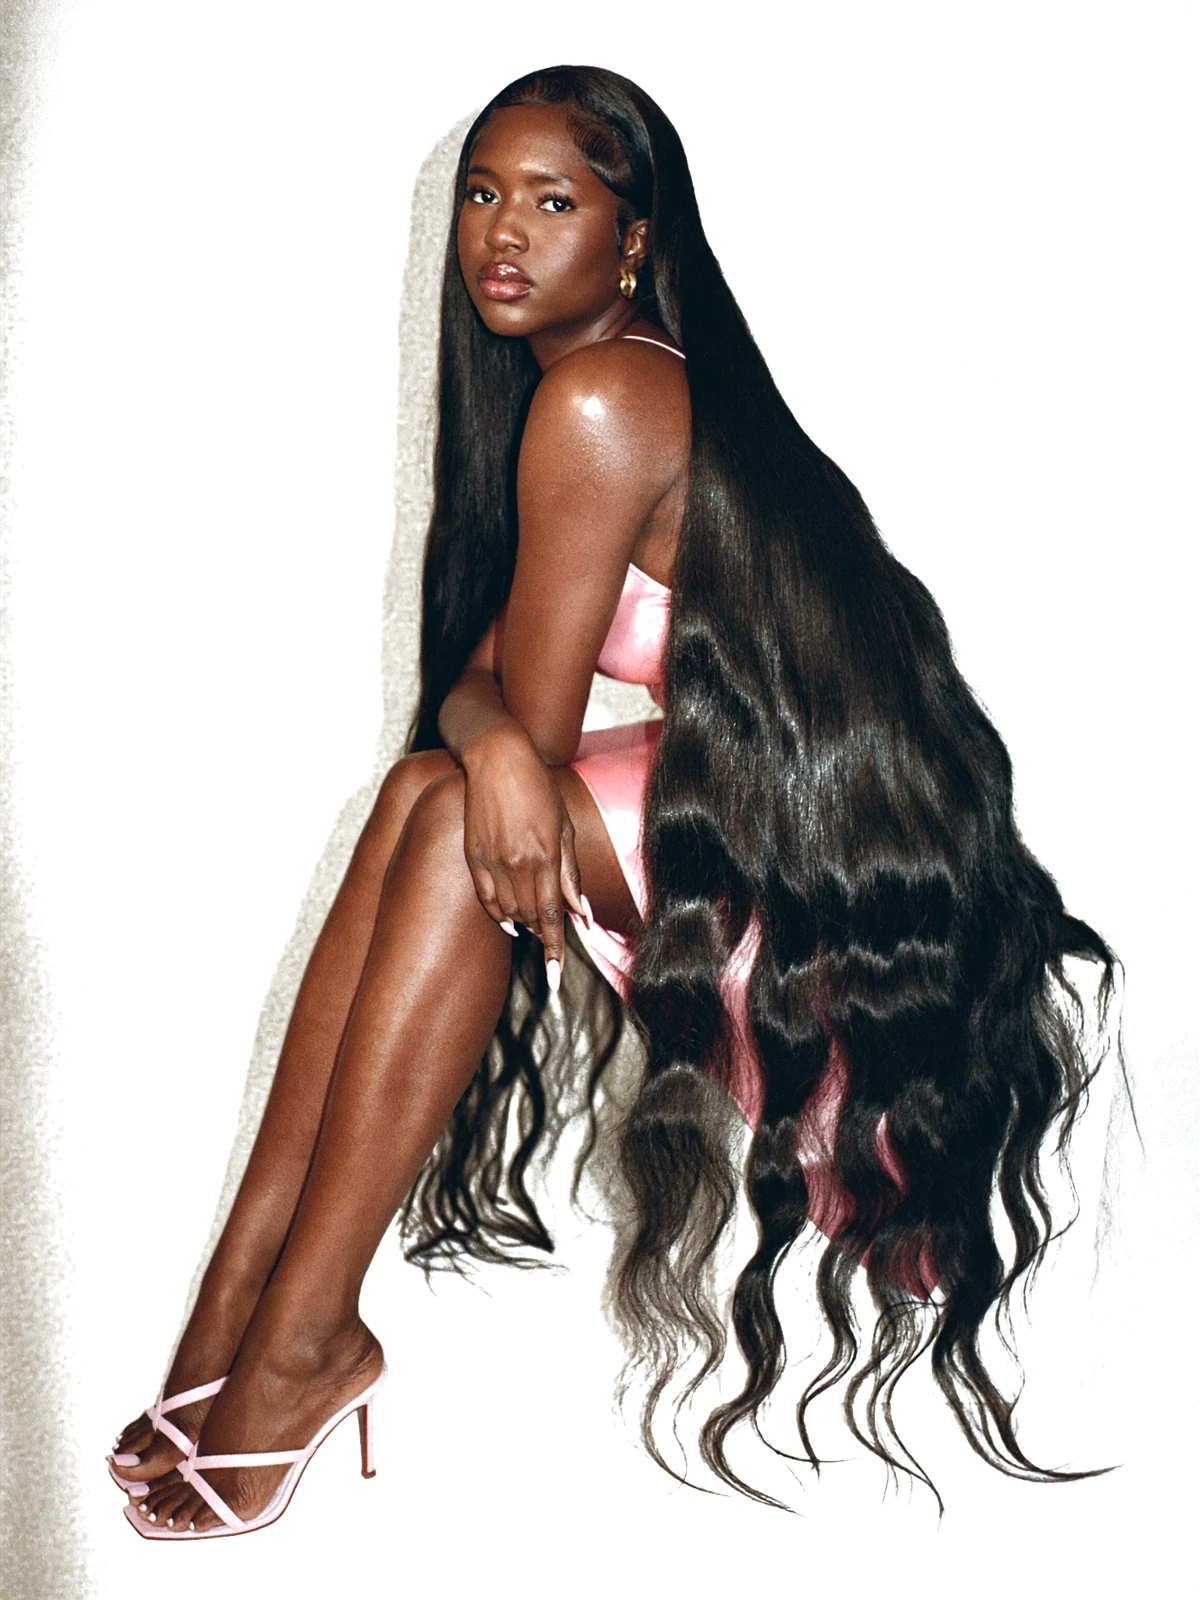
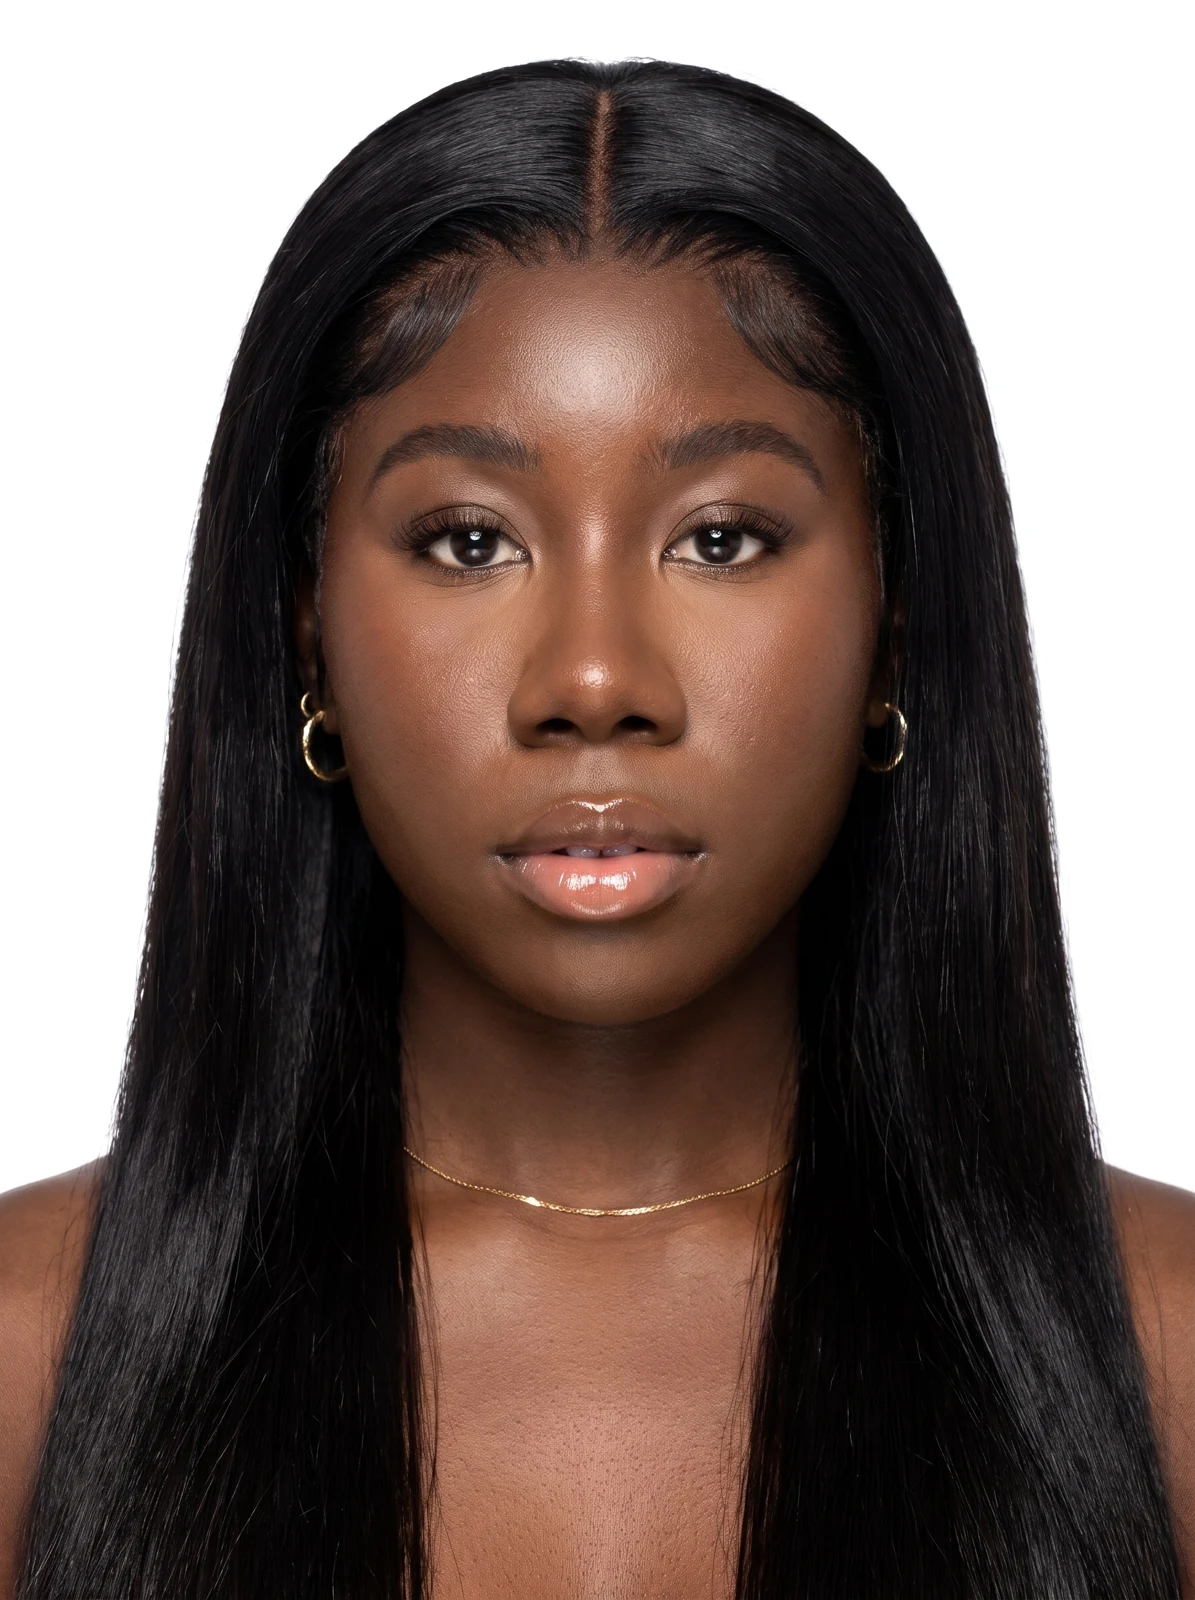
SOYEUSE: model photos generated from the owner's own likeness
Replace the two AI model portraits (hero and glam) with Nano Banana Pro
renders made from the owner's selfie reference, with her consent: front
portrait on white, three-quarter body wave in pink satin. Backdrops
whitened, alt texts updated, glam crop moved up to keep the face in frame.

Claude-Session: https://claude.ai/code/session_01TKxGnCmsb49PvZA5i174My

diff --git a/concepts/soyeuse/index.html b/concepts/soyeuse/index.html
@@ -46,7 +46,7 @@
       <p class="hero__note">Livraison à Abidjan en 24 à 48&nbsp;h</p>
       <a href="boutique/" class="btn btn--pink">Découvrir la boutique</a>
     </div>
-    <div class="hero__img reveal"><img src="img/modele-hero.webp" alt="Mannequin assise de côté, longs cheveux noirs ondulés, fond blanc (image générée par IA)" width="1200" height="1600"></div>
+    <div class="hero__img reveal"><img src="img/modele-hero.webp" alt="Portrait de face, lace lisse noire à raie au milieu, fond blanc (image générée par IA)" width="1200" height="1600"></div>
   </section>
 
   <div class="ruban" aria-hidden="true"><div class="ruban__track"><span>Qualité sans compromis</span><span>Cheveux 100 % naturels</span><span>Livraison à Abidjan</span><span>Confiance absolue</span><span>Qualité sans compromis</span><span>Cheveux 100 % naturels</span><span>Livraison à Abidjan</span><span>Confiance absolue</span><span>Qualité sans compromis</span><span>Cheveux 100 % naturels</span><span>Livraison à Abidjan</span><span>Confiance absolue</span><span>Qualité sans compromis</span><span>Cheveux 100 % naturels</span><span>Livraison à Abidjan</span><span>Confiance absolue</span></div></div>
@@ -110,7 +110,7 @@
       <h2 class="display">L'expérience<span class="script">glamour</span>ultime</h2>
       <p>Montrez-nous votre look&nbsp;: taguez <strong>@soyeusehair</strong><br>sur Instagram et laissez un avis.</p>
     </div>
-    <div class="glam__img"><img src="img/modele-glam.webp" alt="Mannequin de dos, longs cheveux noirs ondulés jusqu'au bas du dos (image générée par IA)" loading="lazy"></div>
+    <div class="glam__img"><img src="img/modele-glam.webp" alt="Portrait de trois-quarts, longs cheveux noirs ondulés, haut rose satin, fond blanc (image générée par IA)" loading="lazy"></div>
   </section>
 
   <section class="avis-band">

diff --git a/concepts/soyeuse/style.css b/concepts/soyeuse/style.css
@@ -126,7 +126,7 @@ svg.i { width: 18px; height: 18px; fill: none; stroke: currentColor; stroke-widt
 .glam__text h2 .script { display: block; font-size: 1em; line-height: inherit; }
 .glam__text p { margin-top: 26px; font-size: 11px; font-weight: 500; letter-spacing: .24em; text-transform: uppercase; line-height: 2; }
 .glam__img { align-self: stretch; width: 100%; min-height: 520px; background: var(--pink-2); }
-.glam__img img { width: 100%; height: 100%; object-fit: cover; object-position: 50% 20%; }
+.glam__img img { width: 100%; height: 100%; object-fit: cover; object-position: 50% 15%; }
 
 /* ---------- Avis ---------- */
 .avis-band { display: grid; grid-template-columns: 1fr 1.2fr; gap: 40px; align-items: center; padding: clamp(50px, 6vw, 80px) var(--pad); background: var(--pink-2); color: #fff; }

diff --git a/concepts/soyeuse/README.md b/concepts/soyeuse/README.md
@@ -40,11 +40,16 @@ Live (unlisted): https://kreeative.xyz/concepts/soyeuse/
 Hastegi is self-hosted in `fonts/` (the owner holds a commercial licence). Keep the licence proof;
 for a client site, check that the licence covers web embedding for that client.
 
-## Model photos (AI-generated)
+## Model photos (AI-generated, from the owner's own likeness)
 
-- `img/modele-hero.webp` (hero: full body, seated sideways on a white cube, white backdrop lifted to
-  pure white) and `img/modele-glam.webp` (« glam » section, backdrop shifted to candy pink): a fictional
-  model generated with Higgsfield (Soul 2.0) for this demo. The alt texts say the images are AI-generated.
+- `img/modele-hero.webp` (hero: front portrait, sleek black lace, white backdrop) and
+  `img/modele-glam.webp` (« glam » section: three-quarter, long body wave, pink satin top): generated
+  with Higgsfield (Nano Banana Pro, `image_references`) from a cropped selfie of the owner, with her
+  consent, so the model is her own likeness and not a stranger's. The backdrops were lifted to pure
+  white with PIL. The alt texts say the images are AI-generated.
+- The reference selfie is not in the repo. To regenerate, upload a new crop to Higgsfield and reuse
+  the prompts in the git history of this file's session notes (front: sleek middle-part lace;
+  glam: body wave, baby-pink satin slip, gold hoops).
 - For a real client, replace them with the client's own photos (under the same names, or in the Studio).
 
 ## The Jeere store `soyeuse` (to create — Jeere session)
